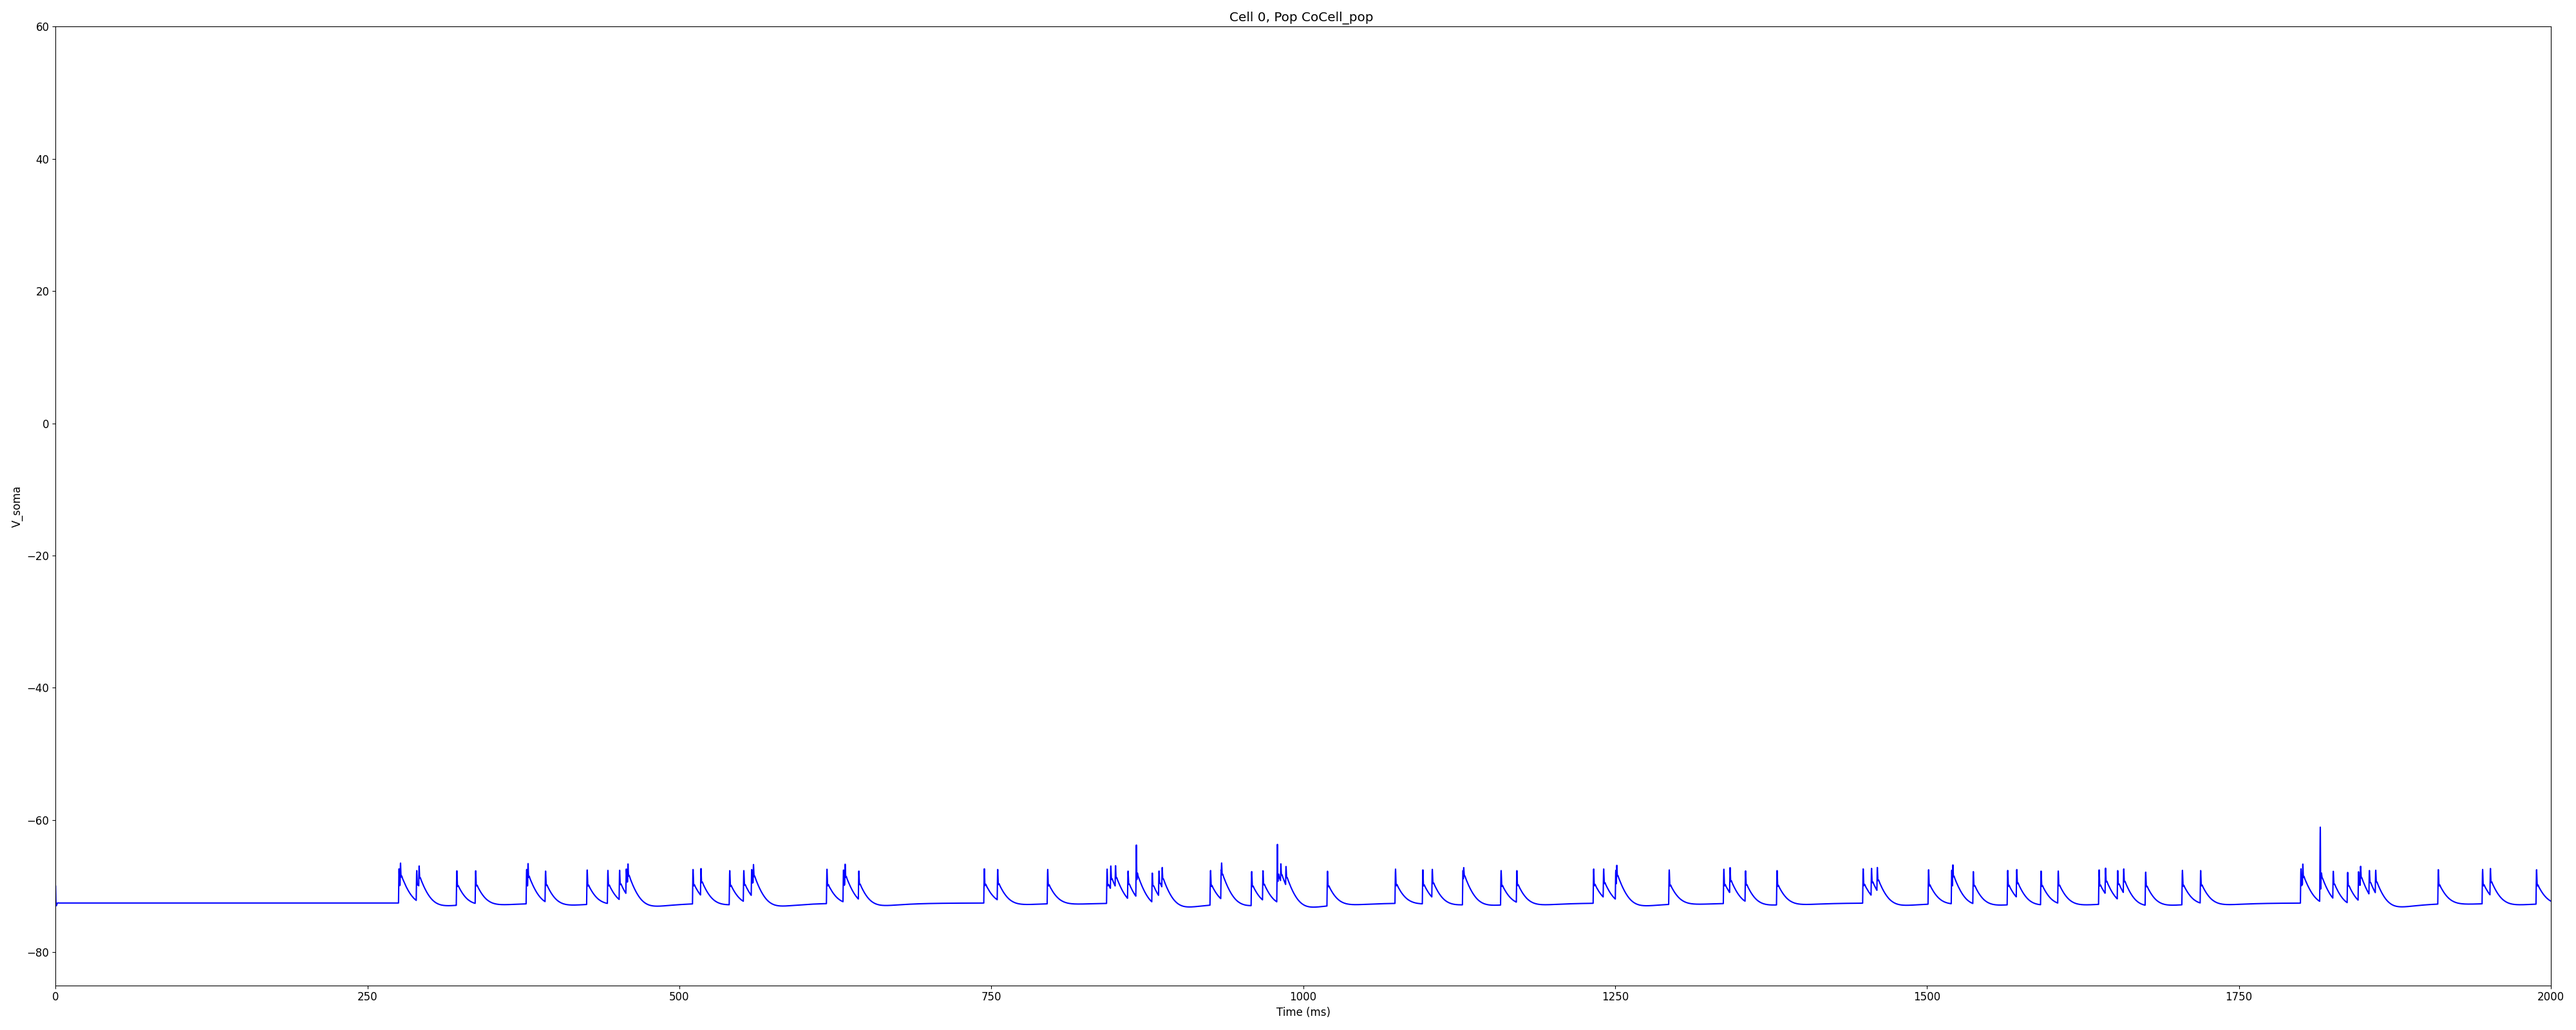
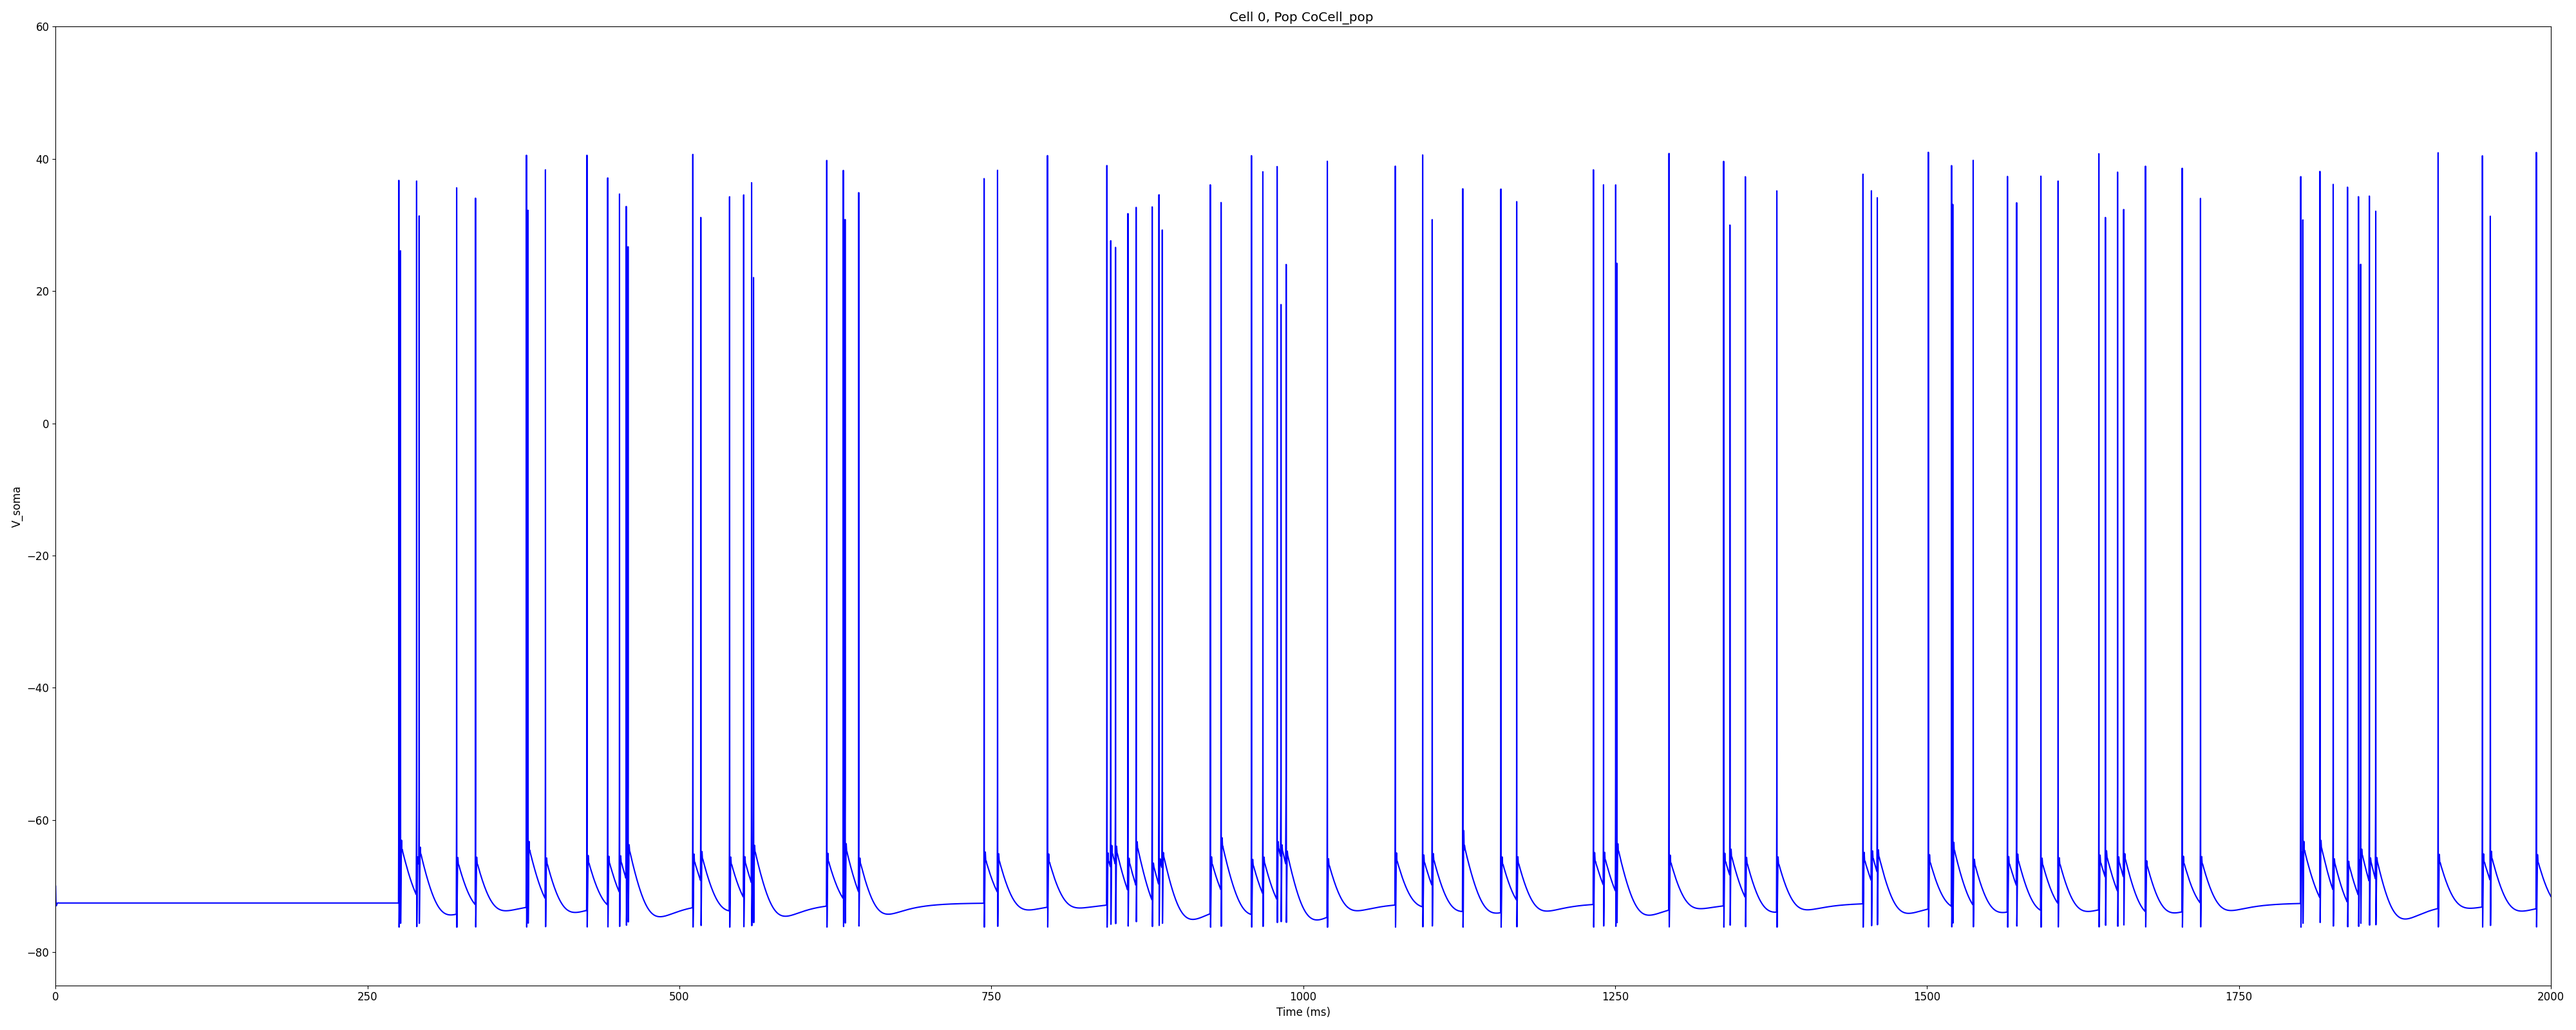
implemented stims to target spine sections

Changed region(s): [[0.375, 0.1875, 0.9688, 0.9062], [0.1562, 0.2188, 0.3438, 0.9062]]

diff --git a/sim/cfg_file.py b/sim/cfg_file.py
@@ -103,6 +103,8 @@ if cfg.savePlots:
                                     'showFig': True, 
                                     'figSize': (40,16)}
 
+    cfg.analysis['plotRaster'] = {'saveFig':True}
+    
     # cfg.analysis['plot2Dnet']   = { 'saveFig': True, 'figSize': (20,15)}   # Plot 2D net cells and connections
 
     # cfg.analysis['plotRaster'] = {'saveFig':True, 'orderInverse': True, 'popRates' : True, 'figSize': (40,30)}#, 'orderBy': 'y'}#, 'dpi':2000}
@@ -121,6 +123,81 @@ if cfg.savePlots:
 cfg.saveCellParams=False
 cfg.changeBaseline = -70 # default
 cfg.numcells = 1
+
+cfg.otherSecsList=[ 'soma',
+                    'ah', 
+                    'is', 
+                    'axon'
+                ]
+
+cfg.dendList=[
+                'dend0_0', 
+                'dend0_1', 
+                'dend0_2', 
+                'dend0_3', 
+                'dend1_0', 
+                'dend1_1', 
+                'dend1_2', 
+                'dend1_3', 
+                'dend2_0', 
+                'dend2_1', 
+                'dend2_2', 
+                'dend2_3', 
+                'dend3_0', 
+                'dend3_1', 
+                'dend3_2', 
+                'dend3_3', 
+                'dend4_0', 
+                'dend4_1', 
+                'dend4_2', 
+                'dend4_3'
+            ]
+
+cfg.neckList=[
+                'neck0_0',
+                'neck0_1',
+                'neck0_2',
+                'neck0_3',
+                'neck1_0',
+                'neck1_1', 
+                'neck1_2', 
+                'neck1_3', 
+                'neck2_0', 
+                'neck2_1', 
+                'neck2_2', 
+                'neck2_3', 
+                'neck3_0', 
+                'neck3_1', 
+                'neck3_2', 
+                'neck3_3', 
+                'neck4_0', 
+                'neck4_1', 
+                'neck4_2', 
+                'neck4_3'
+            ]
+
+cfg.spineList=[
+                'spine0_0', 
+                'spine0_1', 
+                'spine0_2', 
+                'spine0_3', 
+                'spine1_0', 
+                'spine1_1', 
+                'spine1_2', 
+                'spine1_3', 
+                'spine2_0', 
+                'spine2_1', 
+                'spine2_2', 
+                'spine2_3', 
+                'spine3_0', 
+                'spine3_1', 
+                'spine3_2', 
+                'spine3_3', 
+                'spine4_0', 
+                'spine4_1', 
+                'spine4_2', 
+                'spine4_3'
+            ]
 
 #------------------------------------------------------------------------------
 # Synapses
@@ -182,6 +259,7 @@ if cfg.addNetStim:
     cfg.NetStim1    = { 'pop':              'CoCell_pop', 
                         'ynorm':            [0,1], 
                         'sec':              'soma', 
+                        # 'sec':              cfg.spineList, 
                         'loc':              0.5, 
                         'synMech':          ['AMPA','GABAA'], 
                         'synMechWeightFactor': [0.5,0.5],

diff --git a/sim/batch.py b/sim/batch.py
@@ -180,3 +180,9 @@ b.saveFolder    = b.dataFolder + '/' + simType+'_' +  b.batchLabel
 b.method        = 'grid'
 setRunCfg(b, mpi_type)
 b.run() # run batch
+
+'''
+mpiexec -n 6 nrniv -python -mpi batch.py
+
+sudo git commit -a -m " "; sudo git push; sudo git pull
+'''
